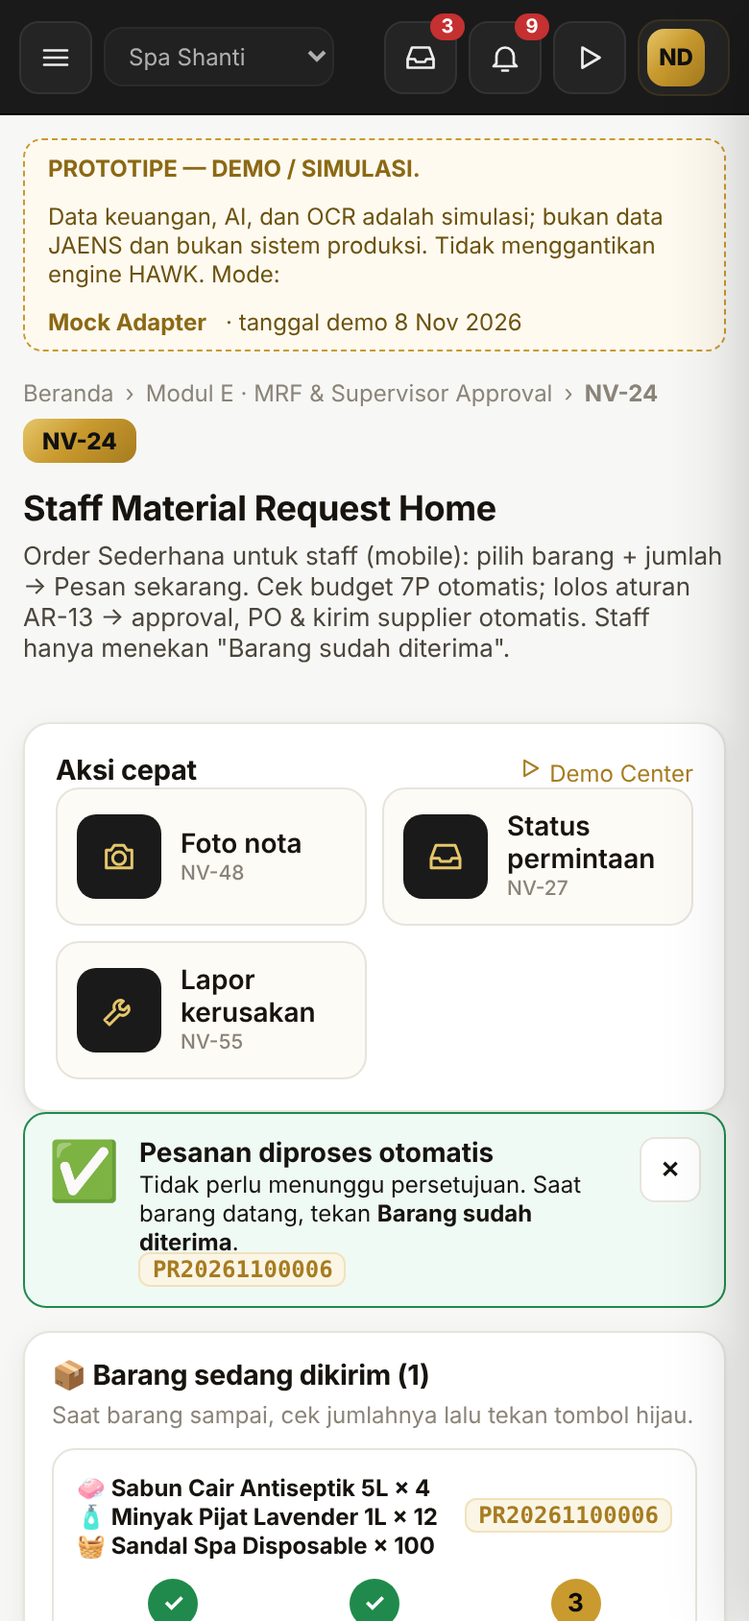
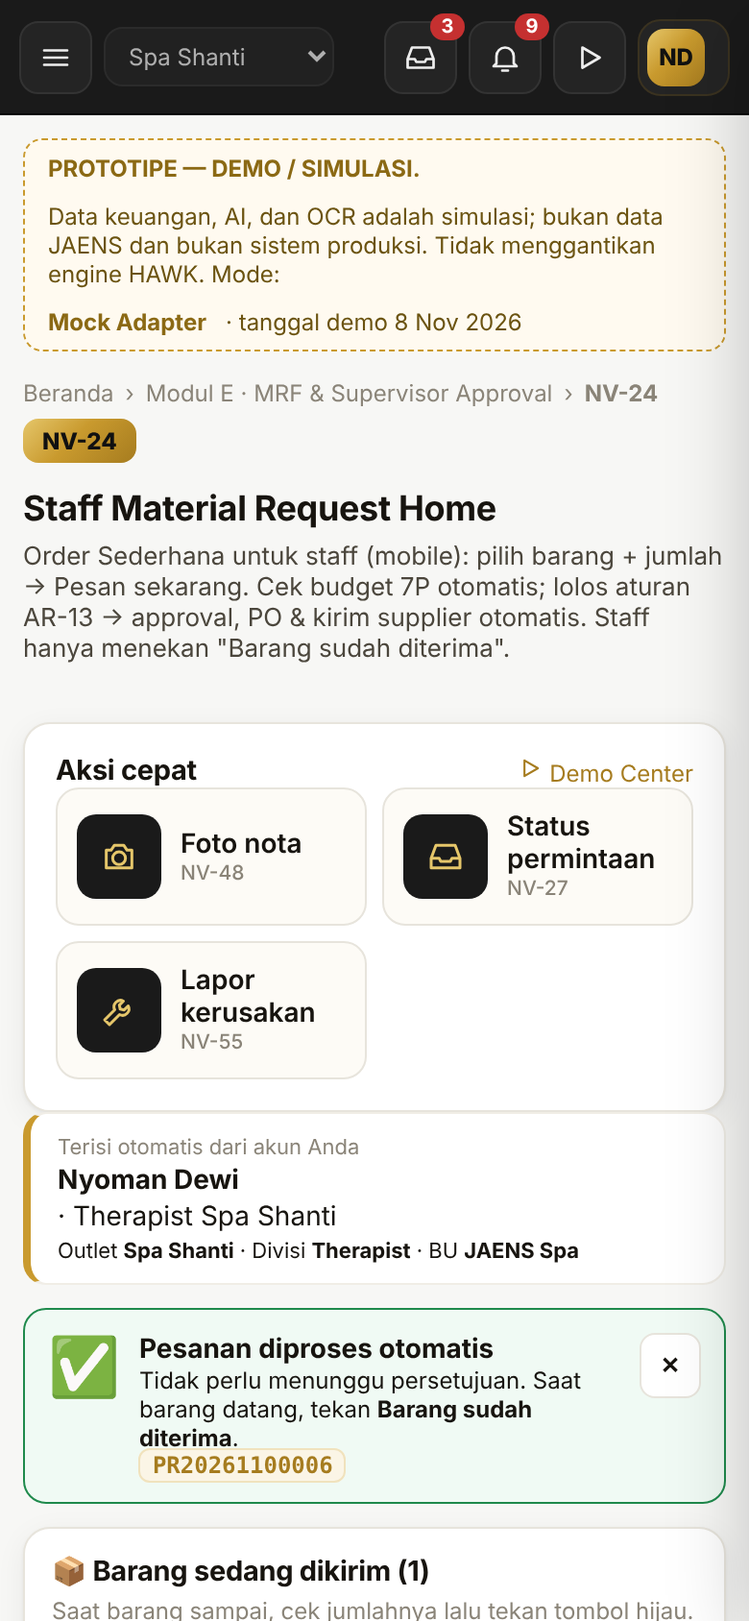
Outlet receiving by outlet accounts + identity auto-filled from the account (Owner decision 8 Nov 2026)
- Supervisor, therapist, receptionist and attendant may receive goods for their own
  outlet (order.receive now covers full-chain MRFs; transfer.receive open to STAFF);
  other outlets are refused
- S.assignment derives name, title, outlet, division and BU from the account; stored
  on mrf.requestedBy, grn.receivedBy, transfer.receivedBy and mrf.receipts; MRF branch
  auto-filled and locked to the account's outlet
- NV-24 shows the auto-filled account card and who received each order; NV-26 adds
  Divisi/BU; NV-43 shows the receiver
- Demo users: Receptionist and Attendant Spa Shanti; Demo Center receipts now by
  Supervisor (MRF-08) and Therapist (MRF-12, SLA-05)
- Tests: workflow T12 (367 total); docs updated

Claude-Session: https://claude.ai/code/session_01VoSDmXXph8Ak4XRHTc21hB

diff --git a/assets/js/core/dx.js b/assets/js/core/dx.js
@@ -25,7 +25,7 @@
     { key: 'STAFF', user: 'U-STF', label: 'Staff / Therapist', device: 'mobile', home: 24 },
   ];
   // roles that the current app requires for some steps but that are not one of the five demo screens
-  const SUPPORT = { 'U-WHS': 'Gudang / Receiving (peran pendukung)', 'U-AST': 'Asset / Facility PIC (peran pendukung)', 'U-OWN': 'Owner (peran pendukung)' };
+  const SUPPORT = { 'U-WHS': 'Gudang pusat (peran pendukung)', 'U-RCP': 'Receptionist outlet (peran pendukung)', 'U-ATD': 'Attendant outlet (peran pendukung)', 'U-AST': 'Asset / Facility PIC (peran pendukung)', 'U-OWN': 'Owner (peran pendukung)' };
   const DEVICES = { desktop: { w: 1280, h: 860, label: 'Desktop' }, ipad: { w: 834, h: 1112, label: 'iPad' }, mobile: { w: 390, h: 844, label: 'Mobile' } };
 
   /* ---- stable target IDs → selector in the REAL screen (contract for developers; see docs/DEMO_EXPERIENCE_CENTER.md) ---- */
@@ -38,6 +38,8 @@
     'dx-po-create': { nv: 32, sel: '[data-a="create"]', label: 'Konsolidasi › Buat draft PO' },
     'dx-po-approve': { nv: 36, sel: '[data-a="approve"][data-p="{po}"]', label: 'PO › Setujui' },
     'dx-grn-receive': { nv: 42, sel: '[data-a="receive"]', label: 'Penerimaan › Konfirmasi penerimaan fisik' },
+    'dx-out-recv': { nv: 24, sel: '[data-a="recv"][data-id2="{mrf}"]', label: 'Pesanan › Barang sudah diterima (akun outlet)' },
+    'dx-out-recvpart': { nv: 24, sel: '[data-a="recvPart"][data-id2="{mrf}"]', label: 'Pesanan › Ada yang kurang (terima sebagian)' },
     'dx-clock': { nv: 61, sel: '[data-a="demoClock"][data-h="72"]', label: 'Control Tower › Simulasi waktu (DEMO)' },
     'dx-issue-esc': { nv: 62, sel: '[data-a="isEsc"][data-is="{issue}"]', label: 'Isu › Eskalasi' },
     'dx-issue-update': { nv: 62, sel: '[data-a="isUpdate"][data-is="{issue}"]', label: 'Isu › Minta update' },
@@ -85,16 +87,6 @@
   };
   const poOfMrf = (s, id) => s.pos.find((p) => p.lines.some((l) => (l.src || []).some((x) => x.mrf === id)) || (p.mrfs || []).includes(id)) || po(s, allocRef(s, id, 'PURCHASE'));
   const etaIn = (s, days) => new Date(Date.parse(HAWK.flow.now(s)) + days * 864e5).toISOString().slice(0, 10);
-  const receivePo = (call, s, poId, mrfId, qty) => {
-    const P = po(s(), poId);
-    const g = call('grn.receive', { po: poId, lines: P.lines.map((l) => ({ received: Math.min(qty, l.qty - l.received), damaged: 0 })) }, 'U-WHS');
-    call('grn.post', { id: g.id }, 'U-WHS');
-    const bins = {};
-    s().grns.find((x) => x.id === g.id).lines.forEach((l, i) => (bins[i] = 'SHN-A-01'));
-    call('grn.putaway', { id: g.id, bins }, 'U-WHS');
-    if (mrfId) call('mrf.issue', { id: mrfId }, 'U-WHS');
-    return g;
-  };
   const newMrf = (s, base, pred) => s.mrfs.find((m) => !base.includes(m.id) && pred(m));
 
   /* ======================= SCENARIOS ======================= */
@@ -124,9 +116,9 @@
         { id: 'MRF-07', as: 'U-PUR', tid: 'dx-po-approve', q: (v) => ({ id: v.po }), title: 'Approval PO & kirim ke vendor', what: 'PO di bawah batas disetujui sesuai matriks approval lalu dikirim ke vendor. Tanggal janji vendor tercatat.',
           run: (c, s, v) => { if (po(s(), v.po).status === 'PENDING_APPROVAL') c('po.decide', { id: v.po, decision: 'APPROVE' }, 'U-PUR'); c('po.send', { id: v.po }, 'U-PUR'); },
           check: (s, v) => po(s, v.po) && ['SENT', 'PARTIAL', 'RECEIVED'].includes(po(s, v.po).status) && {} },
-        { id: 'MRF-08', as: 'U-WHS', tid: 'dx-grn-receive', q: (v) => ({ po: v.po }), title: 'Barang tiba sebagian: 2 dari 3', what: 'Gudang menerima fisik 2 botol, posting ke inventory, put-away, lalu diserahkan → 9/10. PO berstatus PARTIAL (backorder 1).',
-          run: (c, s, v) => receivePo(c, s, v.po, v.mrf, 2),
-          check: (s, v) => po(s, v.po).status !== 'SENT' && S.mrfFulfillment(s, mrf(s, v.mrf)).issued >= 9 && {} },
+        { id: 'MRF-08', as: 'U-SPV', tid: 'dx-out-recvpart', title: 'Barang tiba sebagian di outlet: 2 dari 3', what: 'Di outlet tidak ada orang gudang standby. Supervisor menekan "Ada yang kurang" dan mengisi 2 botol datang. Nama, outlet, divisi, dan BU terisi otomatis dari akun. Sistem membuat penerimaan, posting stok, simpan, dan serah terima → 9/10. PO PARTIAL (backorder 1).',
+          run: (c, s, v) => c('order.receive', { id: v.mrf, lines: [{ item: 'BHP-001', received: 2, damaged: 0 }], note: '2 botol tiba, 1 menyusul' }, 'U-SPV'),
+          check: (s, v) => { const g = s.grns.find((x) => x.po === v.po); return po(s, v.po).status !== 'SENT' && S.mrfFulfillment(s, mrf(s, v.mrf)).issued >= 9 && g && g.receivedBy && g.receivedBy.branch === 'BR-SHN' && {}; } },
         { id: 'MRF-09', as: 'U-PUR', tid: 'dx-clock', title: 'Waktu demo berjalan: vendor lewat janji', what: 'Tombol DEMO memajukan jam simulasi. Control Tower mendeteksi 1 botol lewat tanggal janji dan membuka 1 isu untuk Purchasing (alasan otomatis: supplier kirim sebagian).',
           run: (c) => c('demo.advanceClock', { hours: 120 }, 'U-PUR'),
           check: (s, v) => { const i = issueOf(s, v.mrf); return i && { issue: i.id }; } },
@@ -136,8 +128,8 @@
         { id: 'MRF-11', as: 'U-PUR', tid: 'dx-issue-eta', q: (v) => ({ mrf: v.mrf, tab: 'delay' }), title: 'Purchasing mencatat ETA revisi + alasan', what: 'ETA baru disimpan sebagai riwayat. Tanggal janji asli dan jatuh tempo SLA asli TIDAK ditimpa.',
           run: (c, s, v) => c('flow.changeEta', { po: v.po, eta: etaIn(s(), 2), code: 'SUPPLIER_SHORT', reason: 'Supplier konfirmasi sisa 1 botol dikirim lusa' }, 'U-PUR'),
           check: (s, v) => (po(s, v.po).etaHistory || []).length >= 1 && {} },
-        { id: 'MRF-12', as: 'U-WHS', tid: 'dx-grn-receive', q: (v) => ({ po: v.po }), title: 'Botol terakhir tiba → 10/10', what: 'Sisa 1 botol diterima dan diserahkan. MRF selesai, isu tertutup otomatis, tahap supplier tercatat TERLAMBAT.',
-          run: (c, s, v) => receivePo(c, s, v.po, v.mrf, 1),
+        { id: 'MRF-12', as: 'U-STF', tid: 'dx-out-recv', title: 'Botol terakhir tiba → therapist menerima → 10/10', what: 'Therapist yang sedang bertugas menekan "Barang sudah diterima" di HP. Penerima tercatat otomatis (nama, jabatan, outlet, divisi, BU). MRF selesai, isu tertutup otomatis, tahap supplier tercatat TERLAMBAT.',
+          run: (c, s, v) => c('order.receive', { id: v.mrf }, 'U-STF'),
           check: (s, v) => mrf(s, v.mrf).status === 'FULFILLED' && {} },
         { id: 'MRF-13', as: 'U-FIN', tid: 'dx-doc-capture', title: 'Finance mencocokkan PO–GRN–faktur', what: 'Faktur supplier (contoh A, ekstraksi AI SIMULASI) dicocokkan 3 arah dengan PO dan penerimaan, lalu diverifikasi menjadi tagihan (AP draft).',
           run: (c) => { const d = c('doc.capture', { sample: 'A' }, 'U-FIN'); c('doc.match', { id: d.id }, 'U-FIN'); c('doc.verify', { id: d.id, decision: 'APPROVE' }, 'U-FIN'); },
@@ -201,8 +193,8 @@
         { id: 'SLA-04', as: 'U-PUR', tid: 'dx-issue-eta', q: (v) => ({ mrf: v.mrf, tab: 'delay' }), title: 'Purchasing: ETA revisi + alasan', what: 'ETA revisi tercatat; tanggal janji dan jatuh tempo SLA asli tetap. Isu berstatus Dipantau.',
           run: (c, s, v) => c('flow.changeEta', { po: v.po, eta: etaIn(s(), 1), code: 'SUPPLIER_LATE', reason: 'Vendor konfirmasi kirim besok pagi' }, 'U-PUR'),
           check: (s, v) => (po(s, v.po).etaHistory || []).length >= 1 && {} },
-        { id: 'SLA-05', as: 'U-WHS', tid: 'dx-grn-receive', q: (v) => ({ po: v.po }), title: 'Barang tiba → isu selesai otomatis', what: 'Gudang menerima 3 botol. Isu tertutup otomatis karena tahapnya selesai; riwayat tidak dihapus.',
-          run: (c, s, v) => receivePo(c, s, v.po, v.mrf, 3),
+        { id: 'SLA-05', as: 'U-STF', tid: 'dx-out-recv', title: 'Barang tiba di outlet → isu selesai otomatis', what: 'Staf outlet yang ada (therapist, receptionist, atau attendant) menekan "Barang sudah diterima". Isu tertutup otomatis karena tahapnya selesai; riwayat tidak dihapus.',
+          run: (c, s, v) => c('order.receive', { id: v.mrf }, 'U-STF'),
           check: (s, v) => { const i = s.flowIssues.find((x) => x.id === v.issue); return i && i.status === 'RESOLVED' && {}; } },
       ],
     },

diff --git a/assets/js/core/store.js b/assets/js/core/store.js
@@ -36,6 +36,27 @@
     while (o && o.type !== 'BU' && o.type !== 'OFFICE') o = S.org(s, o.parent);
     return o ? o.id : null;
   };
+  /* Where an account is assigned (from its org scope) — used to auto-fill who / outlet / division / BU on every order & receipt.
+     Never taken from the form: the backend derives it from the logged-in account. */
+  S.assignment = (s, u) => {
+    u = typeof u === 'string' ? S.user(s, u) : u;
+    if (!u) return null;
+    const home = (u.scope || []).map((x) => S.org(s, x)).filter(Boolean);
+    const unit = home.find((o) => o.type === 'BRANCH') || home.find((o) => o.type === 'DIVISION') || home[0] || null;
+    const up = (type) => { let o = unit; while (o && o.type !== type) o = S.org(s, o.parent); return o; };
+    const branch = unit && unit.type === 'BRANCH' ? unit : null;
+    const div = up('DIVISION');
+    let bu = unit;
+    while (bu && bu.type !== 'BU' && bu.type !== 'OFFICE') bu = S.org(s, bu.parent);
+    return {
+      user: u.id, name: u.name, title: u.title || '', role: u.role,
+      branch: branch ? branch.id : null, branchName: branch ? branch.name : home.length > 1 ? 'Multi-unit' : unit ? unit.name : '—',
+      division: div ? div.name : u.dept || '—',
+      bu: bu ? bu.id : null, buName: bu ? bu.name : home.length > 1 ? home.map((o) => o.name).join(', ') : '—',
+      single: home.length === 1 && !!branch,
+    };
+  };
+  S.assignmentText = (a) => (a ? [a.name, a.title, a.branchName, a.division !== '—' ? 'Divisi ' + a.division : '', a.buName].filter(Boolean).join(' · ') : '—');
   S.branches = (s, opts = {}) => s.org.filter((o) => o.type === 'BRANCH' && (opts.all || o.status === 'ACTIVE'));
   S.bus = (s) => s.org.filter((o) => (o.type === 'BU' || o.type === 'OFFICE') && o.scope === 'IN' && o.status === 'ACTIVE');
   S.whOfOrg = (s, orgId) => s.warehouses.find((w) => w.org === orgId);
@@ -683,14 +704,17 @@
   H['mrf.create'] = (s, p, ctx) => {
     const lines = (p.lines || []).filter((l) => l.item && l.qty > 0);
     need(lines.length, 'VALIDATION', 'Minimal satu item dengan qty > 0');
+    const me = S.assignment(s, ctx.user);
+    if (!p.branch && me && me.branch) p = Object.assign({}, p, { branch: me.branch }); // auto-filled from the account
     need(p.branch, 'VALIDATION', 'Unit / lokasi wajib');
+    if (['STAFF', 'SUPERVISOR'].includes(ctx.user.role)) need((ctx.user.scope || []).includes(p.branch), 'FORBIDDEN', 'Akun outlet hanya bisa memesan untuk outlet tempat ia ditugaskan');
     lines.forEach((l) => need(Number.isInteger(+l.qty) && +l.qty <= 9999, 'VALIDATION', 'Qty harus bilangan bulat ≤ 9999'));
     const org = S.org(s, p.branch);
     need(org && org.status === 'ACTIVE', 'VALIDATION', 'Unit tidak aktif');
     const id = U.nextId(s, 'PR'); // HAWK PR numbering: MRF reuses the Purchase Request engine
     const wh = S.whOfOrg(s, p.branch) || s.warehouses.find((w) => w.id === 'WH-PST');
     const m = {
-      id, date: ctx.now, requester: ctx.user.id, branch: p.branch, wh: wh.id, cc: (S.ccOfOrg(s, p.branch) || {}).id,
+      id, date: ctx.now, requester: ctx.user.id, requestedBy: me, branch: p.branch, wh: wh.id, cc: (S.ccOfOrg(s, p.branch) || {}).id,
       type: p.type || 'ROUTINE', status: p.draft ? 'DRAFT' : 'SUBMITTED', memo: p.memo || '', purpose: p.purpose || 'Operasional harian',
       lines: lines.map((l) => ({ item: l.item, qty: +l.qty, reason: l.reason || '', alloc: [] })), approvals: [], history: [], links: p.links || {},
     };
@@ -863,6 +887,8 @@
   H['transfer.receive'] = (s, p, ctx) => {
     const t = get(s.transfers, p.id, 'Transfer');
     need(t.status === 'IN_TRANSIT', 'STATE', 'Transfer belum dikirim');
+    if (['STAFF', 'SUPERVISOR'].includes(ctx.user.role)) need((ctx.user.scope || []).includes((S.wh(s, t.to) || {}).org), 'FORBIDDEN', 'Hanya akun di outlet tujuan yang bisa menerima transfer ini');
+    t.receivedBy = S.assignment(s, ctx.user);
     t.lines.forEach((l) => {
       const r = stockRow(s, t.to, l.item);
       r.onHand += l.qty;
@@ -1018,7 +1044,7 @@
     });
     need(U.sum(lines, (l) => l.received) > 0, 'VALIDATION', 'Tidak ada barang yang diterima');
     const id = U.nextId(s, 'GR');
-    const g = { id, po: po.id, wh: po.deliverTo, date: ctx.now, status: 'RECEIVED', lines, docs: p.docs || ['Surat Jalan (scan simulasi)'], receiver: ctx.user.id, history: [] };
+    const g = { id, po: po.id, wh: po.deliverTo, date: ctx.now, status: 'RECEIVED', lines, docs: p.docs || ['Surat Jalan (scan simulasi)'], receiver: ctx.user.id, receivedBy: S.assignment(s, ctx.user), history: [] };
     hist(g, ctx, 'PHYSICAL_RECEIPT', 'Penerimaan fisik — belum memengaruhi stok');
     s.grns.unshift(g);
     hist(po, ctx, 'GOODS_ARRIVED', id);
@@ -1430,7 +1456,7 @@
   H['order.receive'] = (s, p, ctx) => {
     const m = get(s.mrfs, p.id, 'Pesanan');
     need(m.status === 'IN_FULFILLMENT', 'STATE', 'Pesanan belum disetujui atau sudah selesai');
-    if (ctx.user.role === 'STAFF') need(m.requester === ctx.user.id || ctx.user.scope.includes(m.branch), 'FORBIDDEN', 'Hanya pemesan / staf unit ini');
+    if (['STAFF', 'SUPERVISOR'].includes(ctx.user.role)) need(m.requester === ctx.user.id || ctx.user.scope.includes(m.branch), 'FORBIDDEN', 'Hanya pemesan / akun di outlet ini');
     const sc = sys(ctx);
     const got = {}; // item → qty physically received now (default: everything expected)
     (p.lines || []).forEach((l) => {
@@ -1464,7 +1490,9 @@
     const f = S.mrfFulfillment(s, m);
     need(f.ready > f.issued, 'NOTHING_READY', 'Belum ada barang yang bisa dikonfirmasi diterima');
     H['mrf.issue'](s, { id: m.id }, sc);
-    hist(m, ctx, 'RECEIVED_BY_REQUESTER', p.note || 'Barang diterima');
+    const by = S.assignment(s, ctx.user);
+    (m.receipts = m.receipts || []).push({ at: ctx.now, by, note: p.note || '' });
+    hist(m, ctx, 'RECEIVED_BY_REQUESTER', `${p.note || 'Barang diterima'} — ${S.assignmentText(by)}`);
     log(s, ctx, 'order.receive', m.id, `Diterima ${ctx.user.name}; ${m.status}`);
     return m;
   };

diff --git a/assets/js/screens/e-simple.js b/assets/js/screens/e-simple.js
@@ -11,8 +11,14 @@
   const V = HAWK.views;
   const thumb = (it) => HAWK.vh.thumb(it);
   const homeBranch = (ctx) => (ctx.scope.branch && ctx.scope.branch !== 'ALL' && (S.org(ctx.s, ctx.scope.branch) || {}).type === 'BRANCH' ? ctx.scope.branch : ctx.user.scope.find((x) => (S.org(ctx.s, x) || {}).type === 'BRANCH') || 'BR-SHN');
-  const myOrders = (ctx) => ctx.s.mrfs.filter((m) => m.simple && (ctx.role === 'STAFF' ? m.requester === ctx.user.id || ctx.user.scope.includes(m.branch) : ctx.inScope(m.branch)));
-  const canReceive = (ctx, m) => ctx.can('order.receive') && (ctx.role !== 'STAFF' || m.requester === ctx.user.id || ctx.user.scope.includes(m.branch));
+  const myOrders = (ctx) => ctx.s.mrfs.filter((m) => (m.simple || m.status === 'IN_FULFILLMENT') && (ctx.role === 'STAFF' ? m.requester === ctx.user.id || ctx.user.scope.includes(m.branch) : ctx.inScope(m.branch)));
+  const canReceive = (ctx, m) => ctx.can('order.receive') && (!['STAFF', 'SUPERVISOR'].includes(ctx.role) || m.requester === ctx.user.id || ctx.user.scope.includes(m.branch));
+  /* who / outlet / division / BU come from the logged-in account — never typed again */
+  const meCard = (ctx) => {
+    const a = S.assignment(ctx.s, ctx.user);
+    return a ? `<div class="so-me" data-me="${esc(a.user)}"><span class="tiny muted">Terisi otomatis dari akun Anda</span><b>${esc(a.name)}</b> · ${esc(a.title)}<div class="tiny">Outlet <b>${esc(a.branchName)}</b> · Divisi <b>${esc(a.division)}</b> · BU <b>${esc(a.buName)}</b></div></div>` : '';
+  };
+  const lastReceipt = (m) => (m.receipts && m.receipts.length ? m.receipts[m.receipts.length - 1] : null);
   const left = (s, branch, item) => {
     const b = S.itemBudget(s, branch, item);
     return b ? Math.max(0, b.qty - b.actualQty - b.commitQty) : null;
@@ -48,6 +54,7 @@
       <div class="so-msg ${tone}">${esc(st.label)}</div>
       ${m.autoCheck && !m.autoCheck.ok && st.key === 'WAIT' ? `<div class="tiny muted" style="margin-top:4px">Kenapa perlu persetujuan: ${esc(m.autoCheck.why.join('; '))}</div>` : ''}
       <div class="tiny muted" style="margin-top:6px">${U.rp(S.mrfValue(s, m))} · ${U.datetime(m.date)} · Pembayaran: ${pay}</div>
+      ${lastReceipt(m) ? `<div class="tiny" style="margin-top:4px" data-received-by="${esc(lastReceipt(m).by.user)}">📦 Diterima oleh <b>${esc(lastReceipt(m).by.name)}</b> (${esc(lastReceipt(m).by.title)}, ${esc(lastReceipt(m).by.branchName)}) · ${U.datetime(lastReceipt(m).at)}</div>` : ''}
       ${st.key === 'ARRIVE' && canReceive(ctx, m) ? `<button class="btn lg block so-big ok" data-a="recv" data-id2="${m.id}">✅ Barang sudah diterima</button><button class="link small" data-a="recvPart" data-id2="${m.id}">Ada yang kurang atau rusak?</button>` : ''}
     </div>`;
   }
@@ -72,6 +79,7 @@
       const rest = orders.filter((m) => !waiting.includes(m));
       const canOrder = ctx.can('order.quick');
       return `<div class="so-wrap">
+        ${['STAFF', 'SUPERVISOR'].includes(ctx.role) ? meCard(ctx) : ''}
         ${last ? `<div class="so-done ${last.autoCheck && last.autoCheck.ok ? 'ok' : 'warn'}"><div style="font-size:30px">${last.autoCheck && last.autoCheck.ok ? '✅' : '⏳'}</div><div><b>${last.autoCheck && last.autoCheck.ok ? 'Pesanan diproses otomatis' : 'Pesanan dikirim ke atasan'}</b><div class="small">${last.autoCheck && last.autoCheck.ok ? 'Tidak perlu menunggu persetujuan. Saat barang datang, tekan <b>Barang sudah diterima</b>.' : esc('Perlu persetujuan karena: ' + last.autoCheck.why.join('; '))}</div><div class="tiny muted">${ui.id(last.id)}</div></div><button class="btn sm ghost" data-a="hideLast" aria-label="Tutup">✕</button></div>` : ''}
         ${waiting.length ? `<div class="card so-pad"><h3 style="margin:0">📦 Barang sedang dikirim (${waiting.length})</h3><p class="small muted" style="margin:4px 0 0">Saat barang sampai, cek jumlahnya lalu tekan tombol hijau.</p>${waiting.map((m) => orderCard(ctx, m)).join('')}</div>` : ''}
         ${canOrder ? `<div class="card so-pad"><div class="row between" style="gap:8px"><h2 style="margin:0">🛒 Pesan barang</h2>${branches.length > 1 ? `<select class="inp" style="max-width:190px" data-ch="branch" aria-label="Untuk unit">${branches.map((b) => `<option value="${b.id}" ${b.id === branch ? 'selected' : ''}>${esc(b.name)}</option>`).join('')}</select>` : `<span class="small muted">${esc(S.orgName(s, branch))}</span>`}</div>

diff --git a/tests/workflow.test.js b/tests/workflow.test.js
@@ -813,6 +813,38 @@ const stockOf = (s, wh, it) => (S.stock(s, wh, it) || { onHand: 0, reserved: 0 }
   check('State bersama: jendela A sinkron dari penyimpanan', A.sync() && A.state.meta.rev === B.state.meta.rev && A.state.mrfs.find((x) => x.id === r1.data.id).status !== 'SUBMITTED');
 })();
 
+/* ============ T12. Owner 8 Nov 2026 — penerimaan di outlet oleh akun outlet (tanpa orang gudang) + identitas otomatis dari akun ============ */
+(function outletReceiving() {
+  console.log('T12 Penerimaan di outlet — therapist / receptionist / attendant / supervisor, identitas otomatis');
+  const { call, s } = fresh();
+  const a = S.assignment(s(), 'U-RCP');
+  check('Akun receptionist: outlet, divisi, BU terbaca otomatis dari penugasan', a && a.branch === 'BR-SHN' && a.branchName === 'Spa Shanti' && a.division === 'Front Office' && a.bu === 'BU-SPA' && a.buName === 'JAENS Spa' && a.title === 'Receptionist Spa Shanti');
+  const m0 = call('mrf.create', { memo: 'tanpa isi unit', lines: [{ item: 'BHP-001', qty: 10, reason: 'Pemakaian rutin' }] }, 'STAFF', 'U-ATD');
+  check('Order tanpa mengisi unit → outlet terisi otomatis dari akun (attendant Shanti)', m0.ok && m0.data.branch === 'BR-SHN' && m0.data.requestedBy.division === 'Attendant' && m0.data.requestedBy.bu === 'BU-SPA');
+  check('Akun outlet tidak bisa memesan atas nama outlet lain', call('mrf.create', { branch: 'BR-UBD', lines: [{ item: 'BHP-001', qty: 1 }] }, 'STAFF', 'U-STF').error.code === 'FORBIDDEN');
+  // full chain: approve → PO → sent
+  call('mrf.decide', { id: m0.data.id, decision: 'APPROVE', note: 'ok' }, 'SUPERVISOR', 'U-SPV');
+  const m = () => s().mrfs.find((x) => x.id === m0.data.id);
+  const picks = S.pendingPurchase(s()).filter((p) => p.mrf === m0.data.id).map((p) => ({ mrf: p.mrf, li: p.li, ai: p.ai }));
+  s().transfers.filter((x) => x.mrf === m0.data.id && x.status === 'REQUESTED').forEach((x) => call('transfer.dispatch', { id: x.id }, 'WAREHOUSE'));
+  check('Pesanan 10 butuh pembelian ke supplier (ada PO untuk diterima di outlet)', picks.length > 0);
+  if (picks.length) {
+    const po = call('po.createFromMrf', { picks, supplier: 'SUP-001' }, 'PURCHASING').data;
+    call('po.submit', { id: po.id }, 'PURCHASING');
+    if (s().pos.find((x) => x.id === po.id).status === 'PENDING_APPROVAL') call('po.decide', { id: po.id, decision: 'APPROVE' }, 'PURCHASING');
+    call('po.send', { id: po.id }, 'PURCHASING');
+  }
+  check('Therapist outlet lain (Ubud) tidak bisa menerima barang Shanti', call('order.receive', { id: m0.data.id }, 'STAFF', 'U-STF2').error.code === 'FORBIDDEN');
+  check('Supervisor outlet lain (Ubud) tidak bisa menerima barang Shanti', call('order.receive', { id: m0.data.id }, 'SUPERVISOR', 'U-SPV2').error.code === 'FORBIDDEN');
+  const grnBefore = s().grns.length;
+  const r = call('order.receive', { id: m0.data.id }, 'STAFF', 'U-RCP');
+  const g = s().grns.slice(0, s().grns.length - grnBefore).find((x) => x.receivedBy);
+  check('Receptionist Shanti menerima barang (bukan pemesan, tanpa orang gudang) → selesai', r.ok && m().status === 'FULFILLED', r.error && r.error.message);
+  check('Penerima tercatat otomatis: nama, jabatan, outlet, divisi, BU (dari akun, bukan form)', (!picks.length || (g && g.receivedBy.user === 'U-RCP' && g.receivedBy.division === 'Front Office' && g.receivedBy.buName === 'JAENS Spa')) && m().receipts.at(-1).by.branch === 'BR-SHN' && /Receptionist/.test(m().history.at(-1).note));
+  check('Tidak bisa diterima dua kali', !call('order.receive', { id: m0.data.id }, 'STAFF', 'U-ATD').ok);
+  check('Jurnal tetap seimbang', s().journals.every((j) => Math.abs(j.lines.reduce((x, l) => x + l.dr - l.cr, 0)) < 1));
+})();
+
 console.log(`\n${pass} lulus, ${failN} gagal`);
 require('fs').writeFileSync(path.join(__dirname, 'workflow-results.json'), JSON.stringify({ pass, fail: failN, results }, null, 1));
 process.exit(failN ? 1 : 0);

diff --git a/assets/js/core/contracts.js b/assets/js/core/contracts.js
@@ -98,7 +98,7 @@
     c('stock.query', { module: 'G', hawk: 'Inventory + kolom SOURCE SOH / REQUEST SOH di PR entry', status: 'TO VERIFY', roles: ALL, read: true, input: '{ wh?, item? }', output: 'StockBalance[] { wh, item, onHand, reserved, available, min, max, bin }', transition: 'Read-only', validation: '—', audit: '—' }),
     c('transfer.create', { module: 'G', hawk: 'PO Request register — tombol TRANSFER & kolom TRANSFER ID', status: 'TO VERIFY', roles: ['WAREHOUSE', 'SUPERVISOR'], input: '{ from, to, lines[{item, qty}], memo }', output: 'Transfer { id TR…, status REQUESTED }', transition: '— → REQUESTED (+reservasi asal)', validation: 'Stok tersedia cukup; asal ≠ tujuan', audit: 'TRANSFER_CREATE' }),
     c('transfer.dispatch', { module: 'G', hawk: 'Inventory transfer', status: 'TO VERIFY', roles: ['WAREHOUSE'], input: '{ id }', output: 'Transfer', transition: 'REQUESTED → IN_TRANSIT (stok asal −)', validation: 'onHand cukup', audit: 'TRANSFER_DISPATCH' }),
-    c('transfer.receive', { module: 'G', hawk: 'Inventory transfer', status: 'TO VERIFY', roles: ['WAREHOUSE', 'SUPERVISOR'], input: '{ id }', output: 'Transfer', transition: 'IN_TRANSIT → RECEIVED (stok tujuan +, reservasi MRF)', validation: '—', audit: 'TRANSFER_RECEIVE' }),
+    c('transfer.receive', { module: 'G', hawk: 'Inventory transfer', status: 'TO VERIFY', roles: ['WAREHOUSE', 'SUPERVISOR', 'STAFF'], input: '{ id }', output: 'Transfer', transition: 'IN_TRANSIT → RECEIVED (stok tujuan +, reservasi MRF)', validation: '—', audit: 'TRANSFER_RECEIVE' }),
     c('grn.receive', { module: 'G', hawk: 'PO entry kolom RECEIVED / BACKORDER, DELIVERY STATUS', status: 'TO VERIFY', roles: ['WAREHOUSE'], input: '{ po, lines[{received, damaged, note}], docs[] }', output: 'GRN { id GR…, status RECEIVED }', transition: 'Penerimaan fisik saja — stok belum berubah', validation: 'received ≤ sisa PO; damaged ≤ received', audit: 'GOODS_PHYSICAL_RECEIPT' }),
     c('grn.post', { module: 'G/H', hawk: 'Purchases › RECEIVED REJECTED tab; Inventory posting', status: 'TO VERIFY', roles: ['WAREHOUSE', 'FINANCE'], input: '{ id }', output: 'GRN POSTED + ledger RECEIPT + Journal Dr Persediaan / Cr GRNI', transition: 'RECEIVED → POSTED; PO → PARTIAL | RECEIVED', validation: 'Sekali posting', audit: 'GOODS_RECEIPT_POSTED' }),
     c('grn.putaway', { module: 'G', hawk: '— (bin/rak tidak terlihat di HAWK v2.11.6)', status: 'NEW INTEGRATION REQUIRED', roles: ['WAREHOUSE'], input: '{ id, bins: {lineIndex: binCode} }', output: 'GRN STORED; MRF purchase alloc.readyQty +', transition: 'POSTED → STORED', validation: 'Bin terdaftar di gudang tujuan (scan QR)', audit: 'PUTAWAY_CONFIRMED' }),

diff --git a/assets/js/core/seed.js b/assets/js/core/seed.js
@@ -82,15 +82,17 @@
       { id: 'U-OWN', name: 'Gede Pratama', role: 'OWNER', title: 'Owner / Eksekutif', scope: ['BU-SPA', 'BU-ESS', 'BU-OFC'] },
       { id: 'U-BUM', name: 'Ayu Lestari', role: 'BU_MANAGER', title: 'BU Manager JAENS Spa', scope: ['BU-SPA'] },
       { id: 'U-HOD', name: 'Wayan Ardana', role: 'HEAD_DIV', title: 'Head of Division — Operasional Spa', scope: ['BU-SPA', 'DV-KOM'] },
-      { id: 'U-SPV', name: 'Putu Sukma', role: 'SUPERVISOR', title: 'Supervisor Spa Shanti', scope: ['BR-SHN'] },
-      { id: 'U-STF', name: 'Nyoman Dewi', role: 'STAFF', title: 'Therapist Spa Shanti', scope: ['BR-SHN'] },
+      { id: 'U-SPV', name: 'Putu Sukma', role: 'SUPERVISOR', title: 'Supervisor Spa Shanti', dept: 'Operasional Spa', scope: ['BR-SHN'] },
+      { id: 'U-STF', name: 'Nyoman Dewi', role: 'STAFF', title: 'Therapist Spa Shanti', dept: 'Therapist', scope: ['BR-SHN'] },
       { id: 'U-PUR', name: 'Kadek Surya', role: 'PURCHASING', title: 'Purchasing HQ', scope: ['BU-SPA', 'BU-ESS', 'BU-OFC'] },
       { id: 'U-WHS', name: 'Made Arta', role: 'WAREHOUSE', title: 'Gudang & Receiving', scope: ['BU-SPA', 'BU-ESS', 'BU-OFC'] },
       { id: 'U-FIN', name: 'Luh Ratna', role: 'FINANCE', title: 'Finance & Accounting', scope: ['BU-SPA', 'BU-ESS', 'BU-OFC'] },
       { id: 'U-AST', name: 'Ketut Bagus', role: 'ASSET', title: 'Asset & Facility PIC', scope: ['BU-SPA', 'BU-ESS', 'BU-OFC'] },
       { id: 'U-ADM', name: 'Admin Sistem', role: 'ADMIN', title: 'System Administrator', scope: ['BU-SPA', 'BU-ESS', 'BU-OFC'] },
-      { id: 'U-STF2', name: 'Komang Ayu', role: 'STAFF', title: 'Housekeeping Spa Ubud', scope: ['BR-UBD'] },
-      { id: 'U-SPV2', name: 'Ni Luh Sari', role: 'SUPERVISOR', title: 'Supervisor Spa Ubud', scope: ['BR-UBD'] },
+      { id: 'U-STF2', name: 'Komang Ayu', role: 'STAFF', title: 'Housekeeping Spa Ubud', dept: 'Housekeeping', scope: ['BR-UBD'] },
+      { id: 'U-SPV2', name: 'Ni Luh Sari', role: 'SUPERVISOR', title: 'Supervisor Spa Ubud', dept: 'Operasional Spa', scope: ['BR-UBD'] },
+      { id: 'U-RCP', name: 'Kadek Rina', role: 'STAFF', title: 'Receptionist Spa Shanti', dept: 'Front Office', scope: ['BR-SHN'] },
+      { id: 'U-ATD', name: 'Wayan Sari', role: 'STAFF', title: 'Attendant Spa Shanti', dept: 'Attendant', scope: ['BR-SHN'] },
     ];
 
     /* ---------------- Approval matrix (configurable, NV-09) ---------------- */

diff --git a/assets/js/screens/g-inventory.js b/assets/js/screens/g-inventory.js
@@ -290,12 +290,12 @@
       const done = s.grns.filter((x) => x.status === 'STORED').slice(0, 5);
       L.bins = L.bins || {};
       if (!g)
-        return `<div class="stack"><div class="card">${ui.empty('Tidak ada barang yang menunggu disimpan di rak.')}</div><div class="card"><h3>Put-away terakhir</h3>${ui.table([{ h: 'GRN', f: (x) => ui.id(x.id) }, { h: 'PO', f: (x) => ui.id(x.po) }, { h: 'Bin', f: (x) => x.lines.map((l) => `${esc(S.itemName(s, l.item))} → <span class="mono">${esc(l.bin || '—')}</span>`).join('<br>') }], done)}</div></div>`;
+        return `<div class="stack"><div class="card">${ui.empty('Tidak ada barang yang menunggu disimpan di rak.')}</div><div class="card"><h3>Put-away terakhir</h3>${ui.table([{ h: 'GRN', f: (x) => ui.id(x.id) }, { h: 'PO', f: (x) => ui.id(x.po) }, { h: 'Diterima oleh', f: (x) => (x.receivedBy ? `${esc(x.receivedBy.name)}<div class="tiny muted">${esc(x.receivedBy.title)} · ${esc(x.receivedBy.branchName)}</div>` : esc(S.userName(s, x.receiver))) }, { h: 'Bin', f: (x) => x.lines.map((l) => `${esc(S.itemName(s, l.item))} → <span class="mono">${esc(l.bin || '—')}</span>`).join('<br>') }], done)}</div></div>`;
       const wh = S.wh(s, g.wh);
       const po = S.findRecord(s, g.po).rec;
       const release = g.lines.flatMap((gl) => ((po.lines.find((l) => l.item === gl.item) || {}).mrfRefs || []).map((r) => ({ ...r, item: gl.item })));
       return `<div class="stack">${list.length > 1 ? `<div class="row small">Antrean: ${list.map((x) => `<button class="link" data-a="sel" data-p="${x.id}">${x.id}</button>`).join(' ')}</div>` : ''}
-        <div class="grid g-2-1"><div class="card"><div class="card-head"><h3>${ui.id(g.id)} → ${esc(wh.name)}</h3><span class="r">${ui.status(g.status)}</span></div>
+        <div class="grid g-2-1"><div class="card"><div class="card-head"><h3>${ui.id(g.id)} → ${esc(wh.name)}</h3><span class="r">${ui.status(g.status)}</span></div>${g.receivedBy ? `<p class="tiny muted" style="margin:0 0 8px">Diterima oleh ${esc(S.assignmentText(g.receivedBy))}</p>` : ''}
         ${g.lines.map((l, i) => {
           const sug = suggestBin(s, g.wh, l.item);
           const v = L.bins[i] || '';

diff --git a/assets/js/screens/e-mrf.js b/assets/js/screens/e-mrf.js
@@ -122,7 +122,7 @@
       const wh = S.whOfOrg(s, f.branch) || S.wh(s, 'WH-PST');
       const cc = S.ccOfOrg(s, f.branch) || {};
       const buMgr = s.users.find((u) => u.role === 'BU_MANAGER');
-      const auto = `<div class="auto"><b class="small">Informasi otomatis</b><dl style="margin-top:6px"><dt>Pemohon</dt><dd>${esc(user.name)}</dd><dt>Jabatan</dt><dd>${esc(user.title)}</dd><dt>Unit</dt><dd>${esc(S.orgName(s, f.branch))}</dd><dt>Gudang</dt><dd>${esc(wh.name)}</dd><dt>Cost center</dt><dd class="mono">${esc(cc.id || '—')}</dd><dt>Budget owner</dt><dd>${esc(buMgr ? buMgr.name : '—')} (BU Manager)</dd><dt>Periode budget</dt><dd>November 2026</dd></dl></div>`;
+      const auto = `<div class="auto"><b class="small">Informasi otomatis</b><dl style="margin-top:6px"><dt>Pemohon</dt><dd>${esc(user.name)}</dd><dt>Jabatan</dt><dd>${esc(user.title)}</dd><dt>Unit</dt><dd>${esc(S.orgName(s, f.branch))}</dd><dt>Divisi</dt><dd>${esc(S.assignment(s, user).division)}</dd><dt>BU</dt><dd>${esc(S.orgName(s, S.buOf(s, f.branch)) || '—')}</dd><dt>Gudang</dt><dd>${esc(wh.name)}</dd><dt>Cost center</dt><dd class="mono">${esc(cc.id || '—')}</dd><dt>Budget owner</dt><dd>${esc(buMgr ? buMgr.name : '—')} (BU Manager)</dd><dt>Periode budget</dt><dd>November 2026</dd></dl></div>`;
       const steps = ui.stepper(['Detail permintaan', 'Rincian item & cek stok/budget', 'Ringkasan & kirim'], L.step);
       if (L.step === 0) {
         return `<div class="card" style="max-width:980px">${steps}<div class="grid g-2-1"><div class="stack">

diff --git a/assets/css/hawk.css b/assets/css/hawk.css
@@ -873,3 +873,5 @@ select.ss-inp { appearance: auto; }
 .rs-staff .rs-grid { grid-template-columns: repeat(2, minmax(0, 1fr)); }
 .rs-staff .rs-item { min-height: 72px; font-size: 14px; }
 .rs-staff .rs-ic { width: 44px; height: 44px; }
+/* auto-filled account assignment (Order Sederhana / outlet receiving) */
+.so-me{display:flex;flex-direction:column;gap:2px;padding:10px 14px;border:1px solid var(--line-2);border-left:4px solid var(--gold,#C99A2E);border-radius:12px;background:var(--card,#fff);font-size:14px}

diff --git a/assets/js/core/flow.js b/assets/js/core/flow.js
@@ -106,7 +106,7 @@
   const baseSeed = HAWK.seed;
   HAWK.seed = function () {
     const s = baseSeed();
-    s.meta.schema = 6;
+    s.meta.schema = 7;
     F.seedConfig(s);
     F.seedHistory(s);
     F.sync(s, { user: { id: 'SYS-RULE', role: 'SYSTEM' }, now: F.now(s) });

diff --git a/docs/DEMO_EXPERIENCE_CENTER.md b/docs/DEMO_EXPERIENCE_CENTER.md
@@ -8,7 +8,7 @@ Buka lewat menu samping **Demo Experience Center** atau alamat `#/dx`. Butuh ala
 
 | Mode | Isi |
 |---|---|
-| **Option 1 · Scenario Test Lab** | Satu layar besar. Login role DEMO satu klik (8 role: 5 utama + Gudang, Asset PIC, Owner), ganti device (desktop / iPad / mobile), tutor langkah demi langkah di kanan. |
+| **Option 1 · Scenario Test Lab** | Satu layar besar. Login role DEMO satu klik (10 akun: 5 utama + Gudang pusat, Receptionist, Attendant, Asset PIC, Owner), ganti device (desktop / iPad / mobile), tutor langkah demi langkah di kanan. |
 | **Option 2 · Simulator 5 Layar** | Lima dashboard asli berdampingan: Finance (desktop), Purchasing (desktop), BU Manager (desktop), Supervisor (iPad), Staff (mobile). Plus satu layar "peran pendukung" yang muncul otomatis bila langkah dijalankan Gudang / Asset PIC / Owner. Setiap layar: pilih device, Beranda, maksimalkan (⤢), layar penuh (⛶). Feed aktivitas bersama di bawah. |
 
 Setiap layar adalah **aplikasi HAWK yang sebenarnya** (`index.html?embed=1&as=U-XXX#/nv/N`), bukan gambar. Semua layar membaca satu sandbox `localStorage` yang sama (`hawk-jaens-demo-state-v3`). Satu aksi di satu layar langsung terlihat di layar lain lewat event `storage` + `store.sync()` (cek `meta.rev`). `store.exec` selalu sinkron dulu sebelum menulis, jadi dua jendela tidak saling menimpa (diuji di T11).
@@ -33,7 +33,7 @@ Setiap layar adalah **aplikasi HAWK yang sebenarnya** (`index.html?embed=1&as=U-
 |---|---|---|---|
 | MRF | 10 botol Massage Oil Shanti → 4 lokal / 3 transfer / 3 PO → supplier kirim 2 → lewat SLA → eskalasi → ETA revisi → 10/10 → faktur (3-way match) → AP disetujui → **pembayaran** → review BU | 16 | Staff, Supervisor, Gudang, Purchasing, BU Manager, Finance |
 | NOTA | Nota tulisan tangan → koreksi OCR (simulasi) → kirim → Supervisor setuju → Finance verifikasi (jurnal) → settle | 6 | Staff, Supervisor, Finance |
-| SLA | PO terkirim → jam demo +120 jam → isu terbuka → Supervisor minta update → BU Manager eskalasi → Purchasing ETA revisi → diterima → isu selesai | 5 | Supervisor, BU Manager, Purchasing, Gudang |
+| SLA | PO terkirim → jam demo +120 jam → isu terbuka → Supervisor minta update → BU Manager eskalasi → Purchasing ETA revisi → diterima → isu selesai | 5 | Supervisor, BU Manager, Purchasing, Staff (therapist) |
 | BUDGET | Tinjau 7P → bobot bulanan budget 2027 → BHP outlet → revisi Q4 (Promotion −15 jt / Product +15 jt) → Owner setuju → budget vs actual | 6 | BU Manager, Supervisor, Owner, Finance |
 | ASSET | Lapor AC rusak → review → work order + permintaan suku cadang → approval MRF → PO → WO selesai (biaya 350 rb) → Finance posting jurnal | 8 | Staff, Supervisor, Asset PIC, BU Manager, Purchasing, Finance |
 | OFFICE | Finance ubah porsi biaya Shared Office 60/40 → BU Spa setuju → BU Essence setuju (Owner, karena data demo belum punya BU Manager Essence) → Finance **kunci periode** | 4 | Finance, BU Manager, Owner |
@@ -91,7 +91,7 @@ Nama endpoint di atas adalah **usulan**, bukan API HAWK yang ada.
 
 ## 8. Konflik desain & batasan
 
-- **Siapa yang menerima barang.** Brief menyebut Supervisor; di aplikasi saat ini penerimaan (GRN, put-away, kirim transfer) dilakukan role **Gudang**. Skenario memakai Gudang sebagai peran pendukung (layar ke-6) agar kontrol yang sudah ada tidak dilonggarkan. Perlu keputusan Owner bila Supervisor outlet harus bisa menerima langsung.
+- **Siapa yang menerima barang (diputuskan Owner 8 Nov 2026).** Akun outlet mana pun (Supervisor, therapist, receptionist, attendant) boleh menerima barang untuk outletnya sendiri lewat tombol **Barang sudah diterima** / **Ada yang kurang** (NV-24). Sistem membuat penerimaan, posting stok, simpan, dan serah terima sekaligus. Penerima (nama, jabatan, outlet, divisi, BU) dicatat otomatis dari akun. Di skenario MRF, Supervisor menerima 2 botol (MRF-08) dan therapist menerima botol terakhir (MRF-12); di skenario SLA, therapist menerima (SLA-05). Gudang hanya tampil untuk mengirim transfer dari Ubud.
 - **BU Manager Essence** belum ada di data demo; review BU Essence di skenario OFFICE dijalankan Owner.
 - Header keamanan diubah dari `frame-ancestors 'none'` / `X-Frame-Options: DENY` menjadi `'self'` / `SAMEORIGIN` agar aplikasi bisa membingkai dirinya sendiri. Situs lain tetap tidak bisa membingkai HAWK.
 - Sandbox ada di `localStorage` browser: hilang bila data situs dihapus, tidak dibagi antar perangkat atau antar orang, dan **bukan** penyimpanan permanen.

diff --git a/docs/VALIDATION_REPORT.md b/docs/VALIDATION_REPORT.md
@@ -6,13 +6,13 @@ Tanggal: 8 November 2026 · Lingkungan: Chromium (Playwright) + Node.js 22 · Da
 
 | Area (MP-HAWK-03 bagian D) | Tes | Hasil |
 |---|---|---|
-| Alur engine end-to-end (MRF → PO → Inventory → Finance → Budget → AI), budget 7P, receiving parsial, aset, organisasi, integritas | `node tests/workflow.test.js` | **357 lulus, 0 gagal** (termasuk T8 Smart Spend, T9 Order Sederhana, T10 Control Tower, T11 Demo Center 6 skenario); setiap operasi tulis di kontrak punya tes engine |
+| Alur engine end-to-end (MRF → PO → Inventory → Finance → Budget → AI), budget 7P, receiving parsial, aset, organisasi, integritas | `node tests/workflow.test.js` | **367 lulus, 0 gagal** (termasuk T8 Smart Spend, T9 Order Sederhana, T10 Control Tower, T11 Demo Center 6 skenario, T12 penerimaan di outlet oleh akun outlet + identitas otomatis); setiap operasi tulis di kontrak punya tes engine |
 | Walkthrough Owner 14 langkah lewat **klik UI nyata** (role switcher, tombol, form) | `node tests/e2e-walkthrough.js` | **21 lulus, 0 gagal**; 14/14 langkah tercentang |
 | **Smart Spend 15 langkah penerimaan MP-HAWK-06** lewat klik UI nyata di 390 px (Staff Shanti → nota tulisan tangan → koreksi → klasifikasi → budget → kirim → Supervisor → Finance buka bukti → verifikasi → bayar → tidak ada posting ganda) | `node tests/e2e-smart-spend.js` | **26 lulus, 0 gagal**; screenshot M1–M6 di `docs/screenshots/smart-spend/` |
 | **Order Sederhana** (8 Nov 2026): 3 jenis barang, qty & nilai berbeda, cek budget 7P, otomatis AR-13, lewat budget → Supervisor, Finance "Sudah dibayar" sebelum barang datang, terima sebagian lalu sisa, pengaturan oleh Finance/Admin/Owner, 20 dashboard dicek setelahnya | `node tests/e2e-simple-order.js` | **33 lulus, 0 gagal** di 390 px; screenshot di `docs/screenshots/simple-order/` |
 | **Control Tower MP-HAWK-08** (Massage Oil Shanti 4/3/3 → 2 tiba → lewat SLA → isu Purchasing → Supervisor eskalasi → ETA revisi → 10/10 → isu tertutup → SLA terbarui → Finance tanpa pengakuan ganda; drill-down KPI/tahap/filter; ubah bobot PFHI & SLA berversi; 8 widget peran; staf & supervisor di 390 px) | `node tests/e2e-control-tower.js` | **32 lulus, 0 gagal**; screenshot di `docs/screenshots/control-tower/` |
 | **Demo Experience Center MP-HAWK-09** (`#/dx`): 5 dashboard asli di frame (Finance/Purchasing/BU Manager desktop, Supervisor iPad, Staff HP) di satu sandbox; klik tombol asli Setujui di layar Supervisor → terdeteksi tutor (via UI) → status sama di kelima layar + feed; 6 skenario (45 langkah) lewat tutor dengan setiap Target ID ditemukan di layar asli role-nya, jurnal seimbang; maksimalkan, BLOCKED, PASS, export JSON, Test Lab login role & ganti device, reset, 390/834/1440 px | `node tests/e2e-demo-center.js` | **35 lulus, 0 gagal**; screenshot di `docs/screenshots/demo-center/` |
-| Navigasi semua layar × semua role, error runtime, tombol tanpa handler | `node tests/browser-all.js` | **744 kunjungan** (12 pengguna × 62 NV), 422 akses dibatasi sesuai role, **4.877 kontrol** diperiksa, **0 error**, **0 tombol tanpa handler** |
+| Navigasi semua layar × semua role, error runtime, tombol tanpa handler | `node tests/browser-all.js` | **868 kunjungan** (14 pengguna × 62 NV), 520 akses dibatasi sesuai role, **5.249 kontrol** diperiksa, **0 error**, **0 tombol tanpa handler** |
 | Responsif mobile / tablet / desktop | `node tests/responsive.js` | 62/62 layar tanpa overflow horizontal di **1440 px, 834 px, 390 px**; 0 error |
 | Kesiapan deploy (build `dist/`, paket Vercel tanpa GitHub, login Cloudflare & Vercel, CSP ketat, refresh di `#/nv/23`, aset lengkap, desktop/iPad/mobile di build terlindungi) | `node tests/deploy.test.js` | **33 lulus, 0 gagal** (domain preview.hawk.jaens.id — status live lihat docs/DEPLOY_VERCEL.md §5) |
 | Paket Vercel dibangun dengan Vercel CLI 65.12.1 (`vercel build --prod`, lokal) | manual, 8 Nov 2026 | Build sukses; middleware terkompilasi (runtime Node.js) menjawab 503 tanpa password, 401 tanpa login, lanjut bila login benar. **Belum diuji di server Vercel.** |
